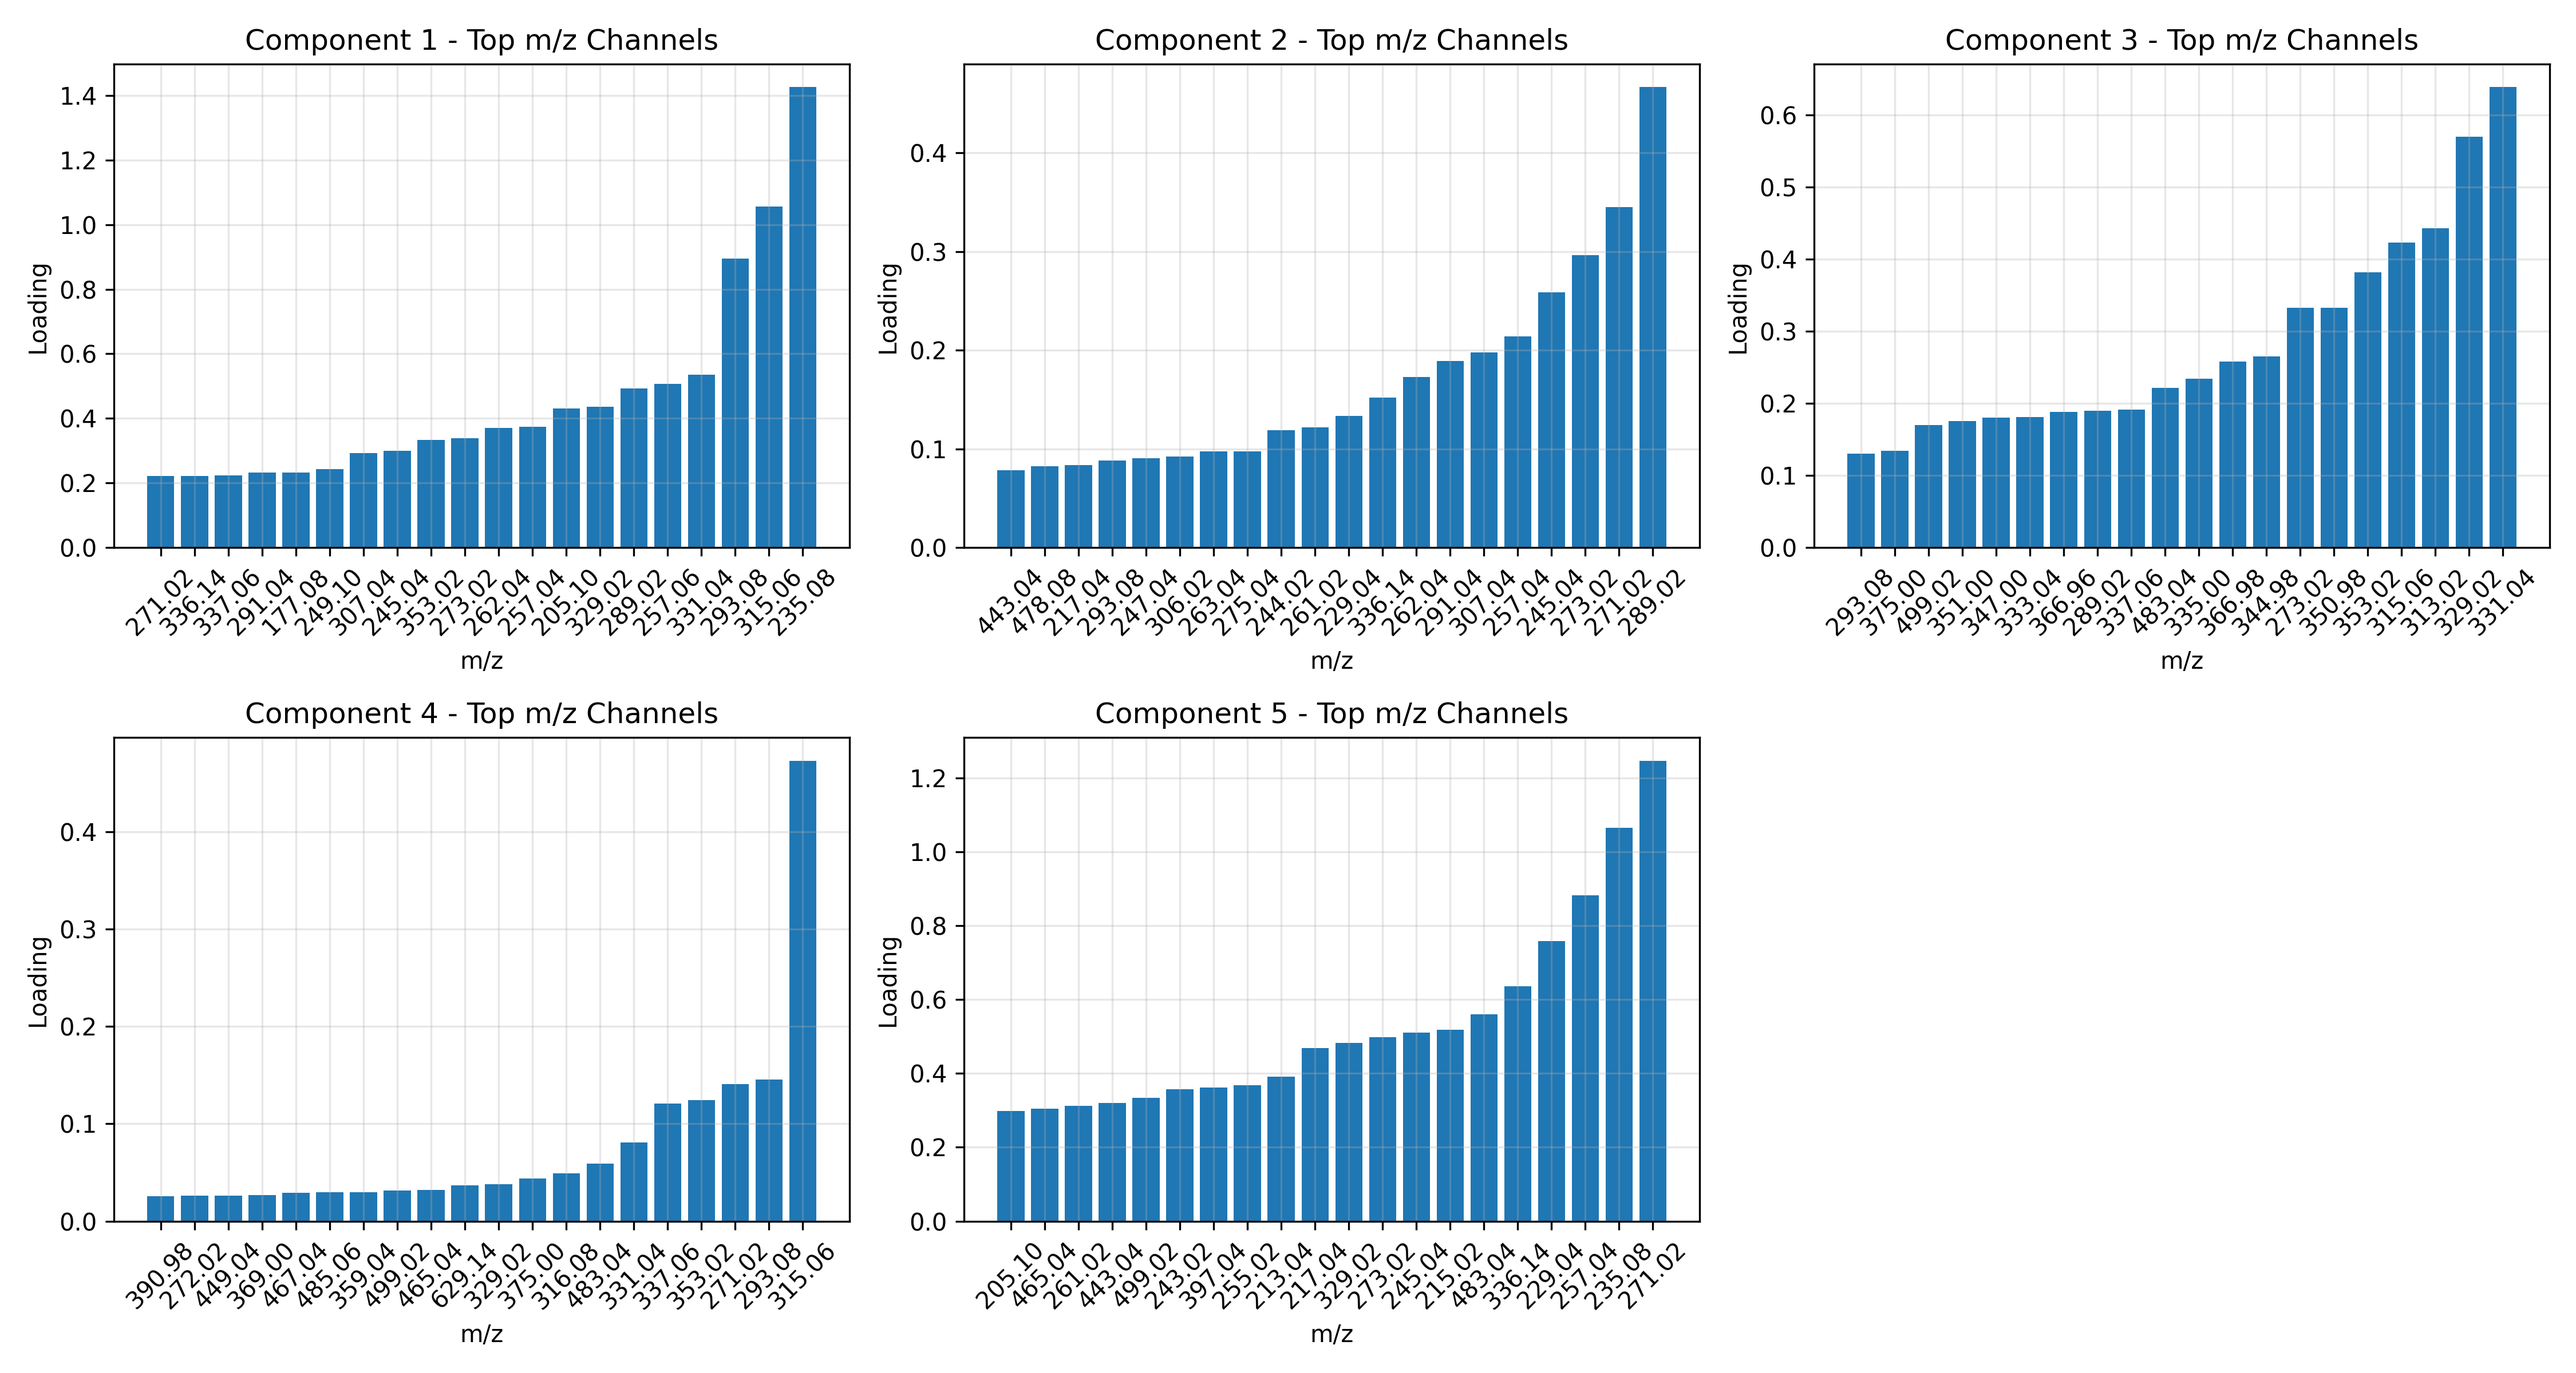
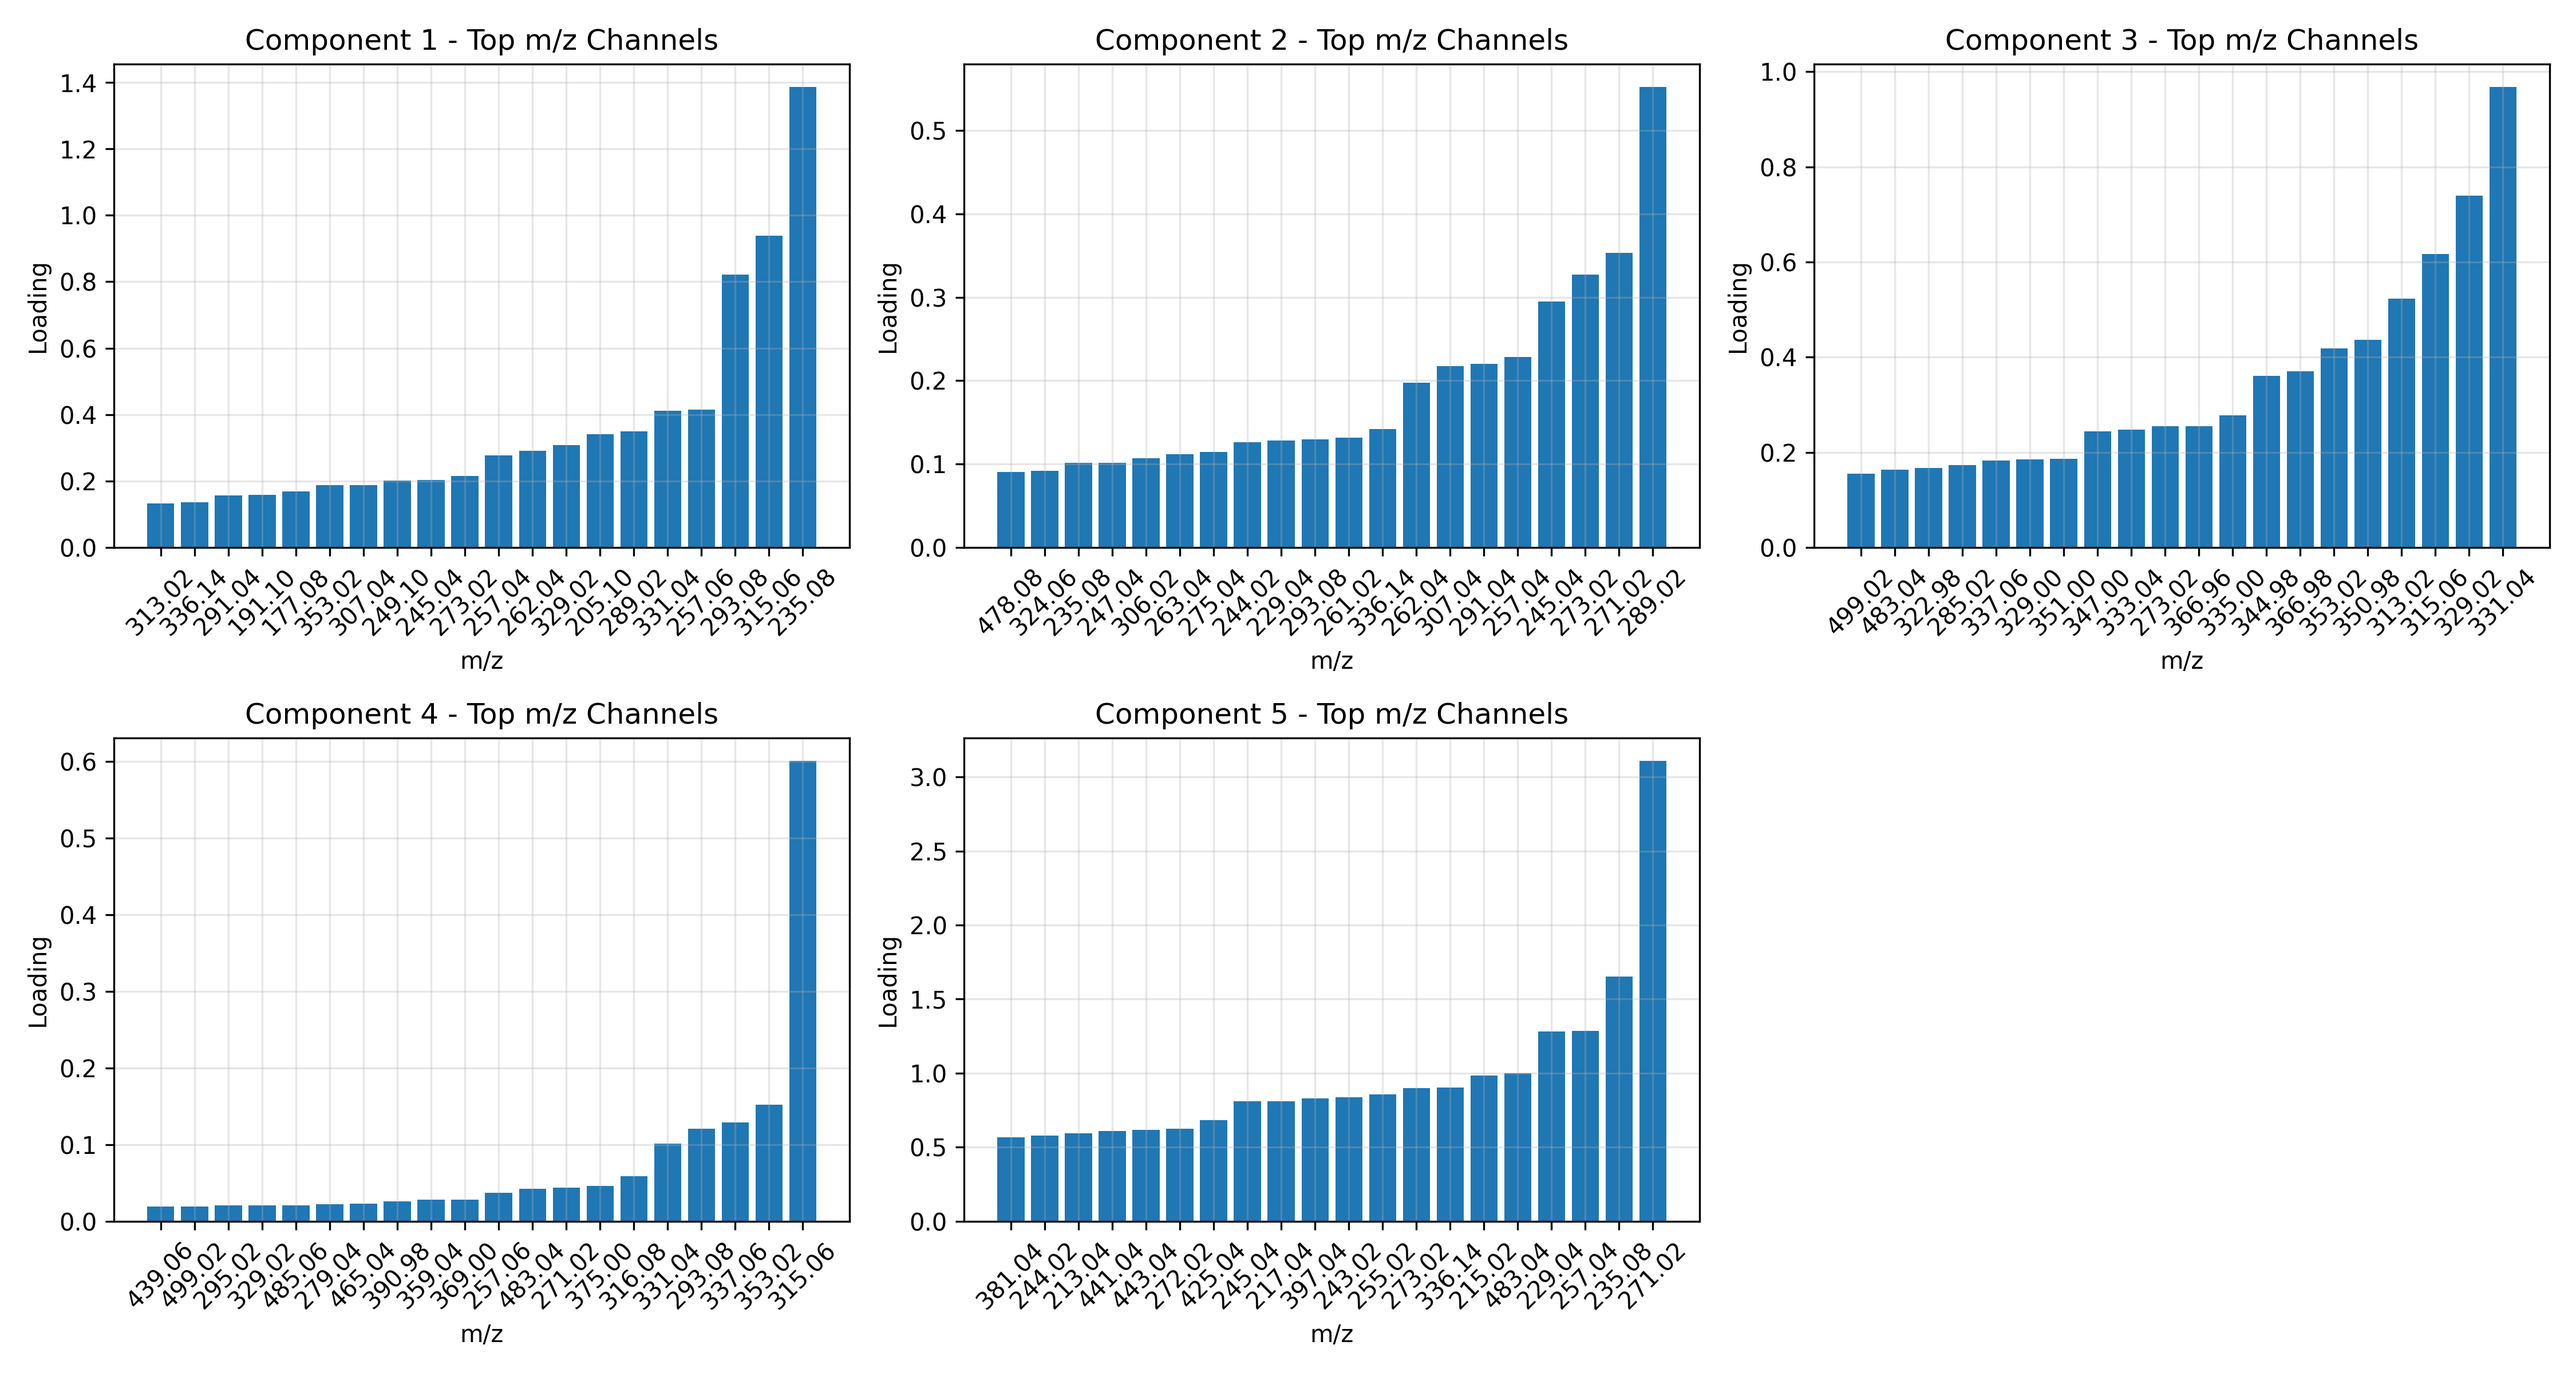
wasted time

diff --git a/src/AE.py b/src/AE.py
@@ -138,6 +138,6 @@ for i, ax in enumerate(axes.flat):
 
 # Adjust layout and save the plot
 plt.tight_layout(rect=[0, 0, 1, 0.96])
-output_path = os.path.join(args.output, f"{args.name}_reconstructed_vs_original.png")
+output_path = os.path.join(args.output, f"{args.name}_AE_reconstructed_vs_original.png")
 plt.savefig(output_path)
 print(f"Plot saved to {output_path}")

diff --git a/src/NMF.py b/src/NMF.py
@@ -20,7 +20,7 @@ X = np.load(args.input)
 
 
 n_components = 1500  # Choose number of components
-nmf = NMF(n_components=n_components, random_state=42, max_iter=1)
+nmf = NMF(n_components=n_components, random_state=42, max_iter=10)
 W = nmf.fit_transform(X)  # Sample weights
 H = nmf.components_  # Component spectra
 
